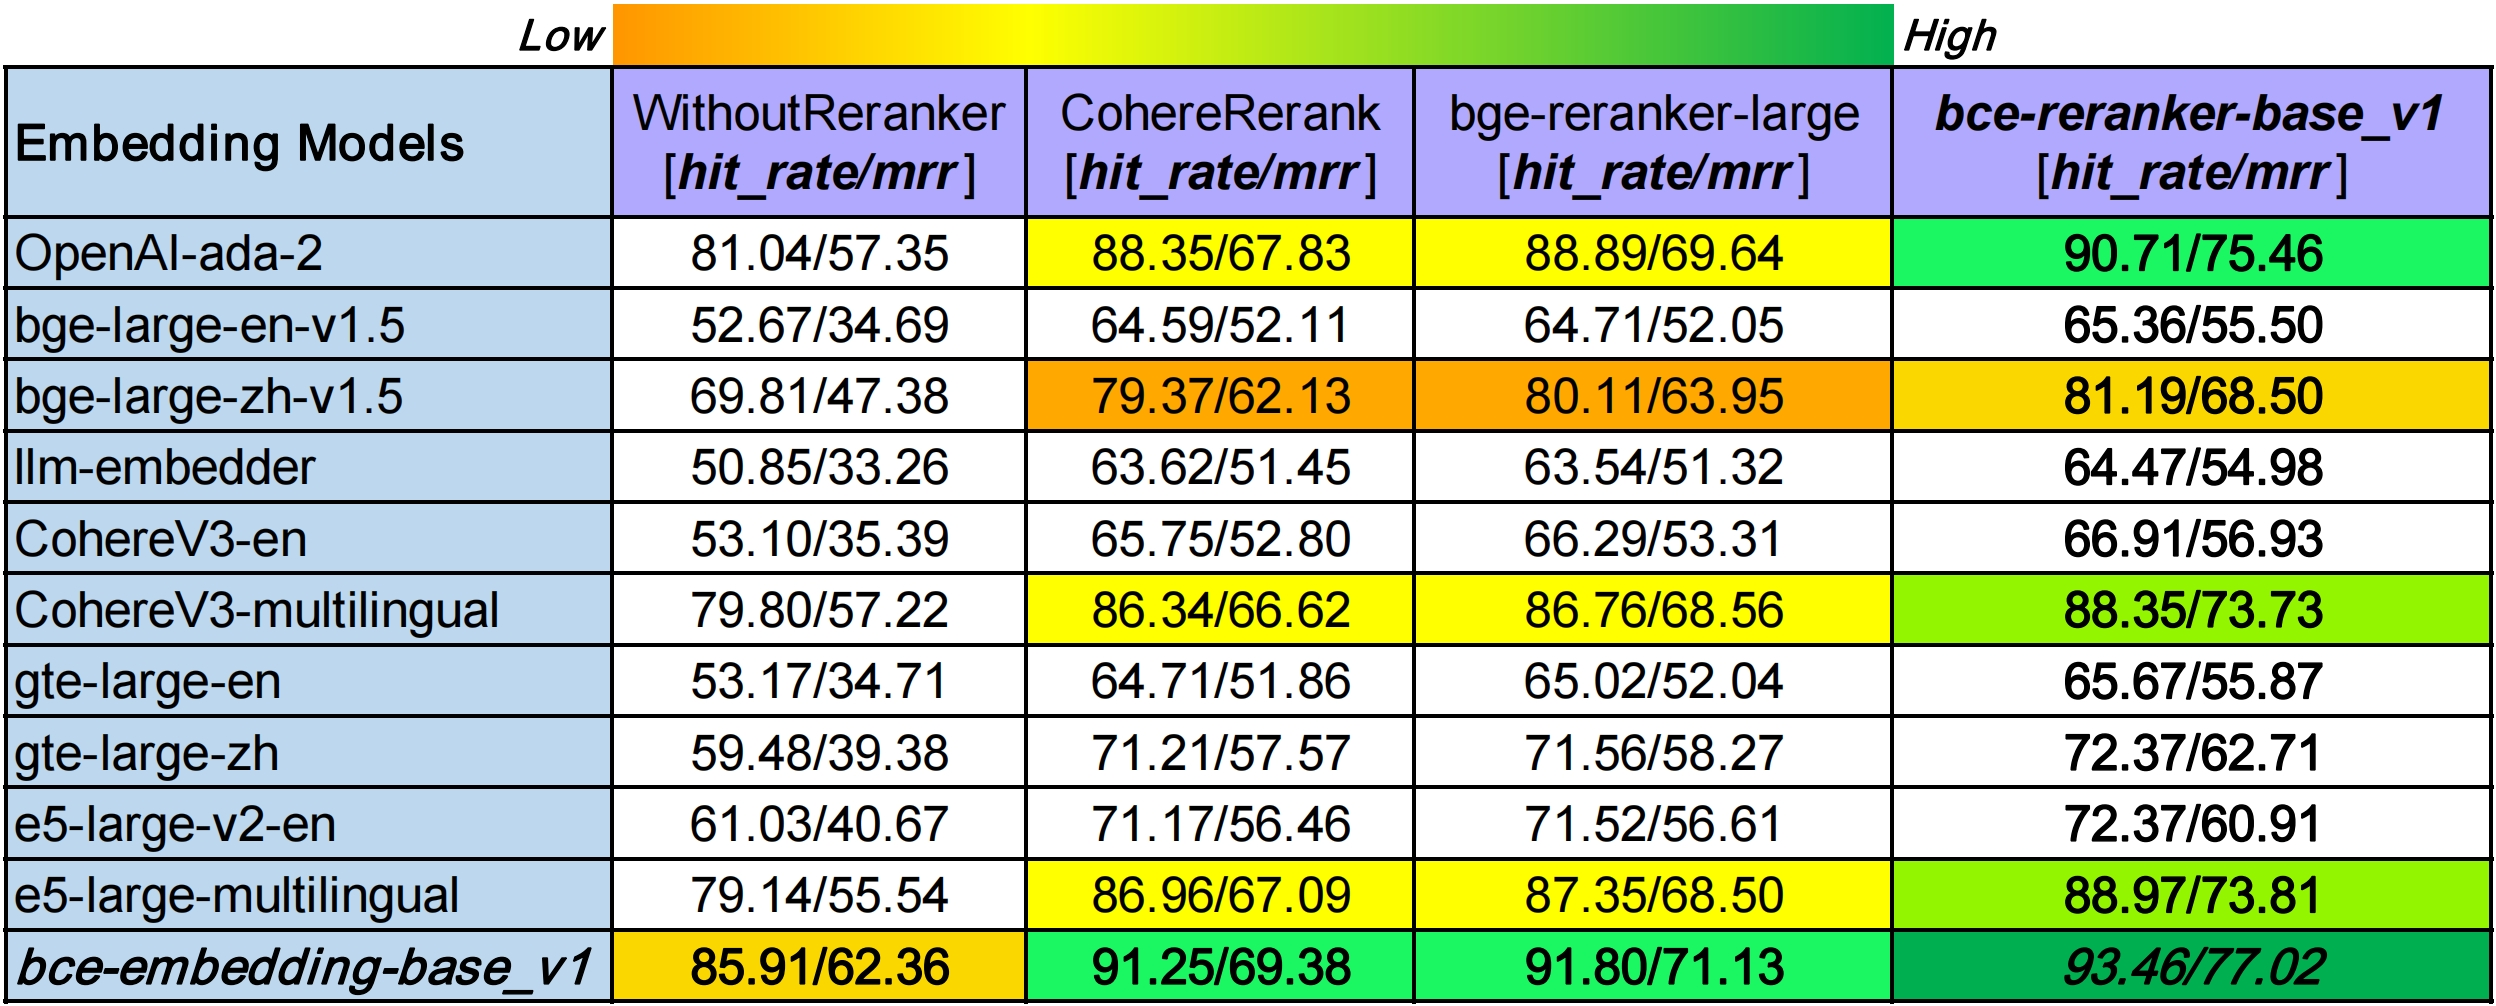
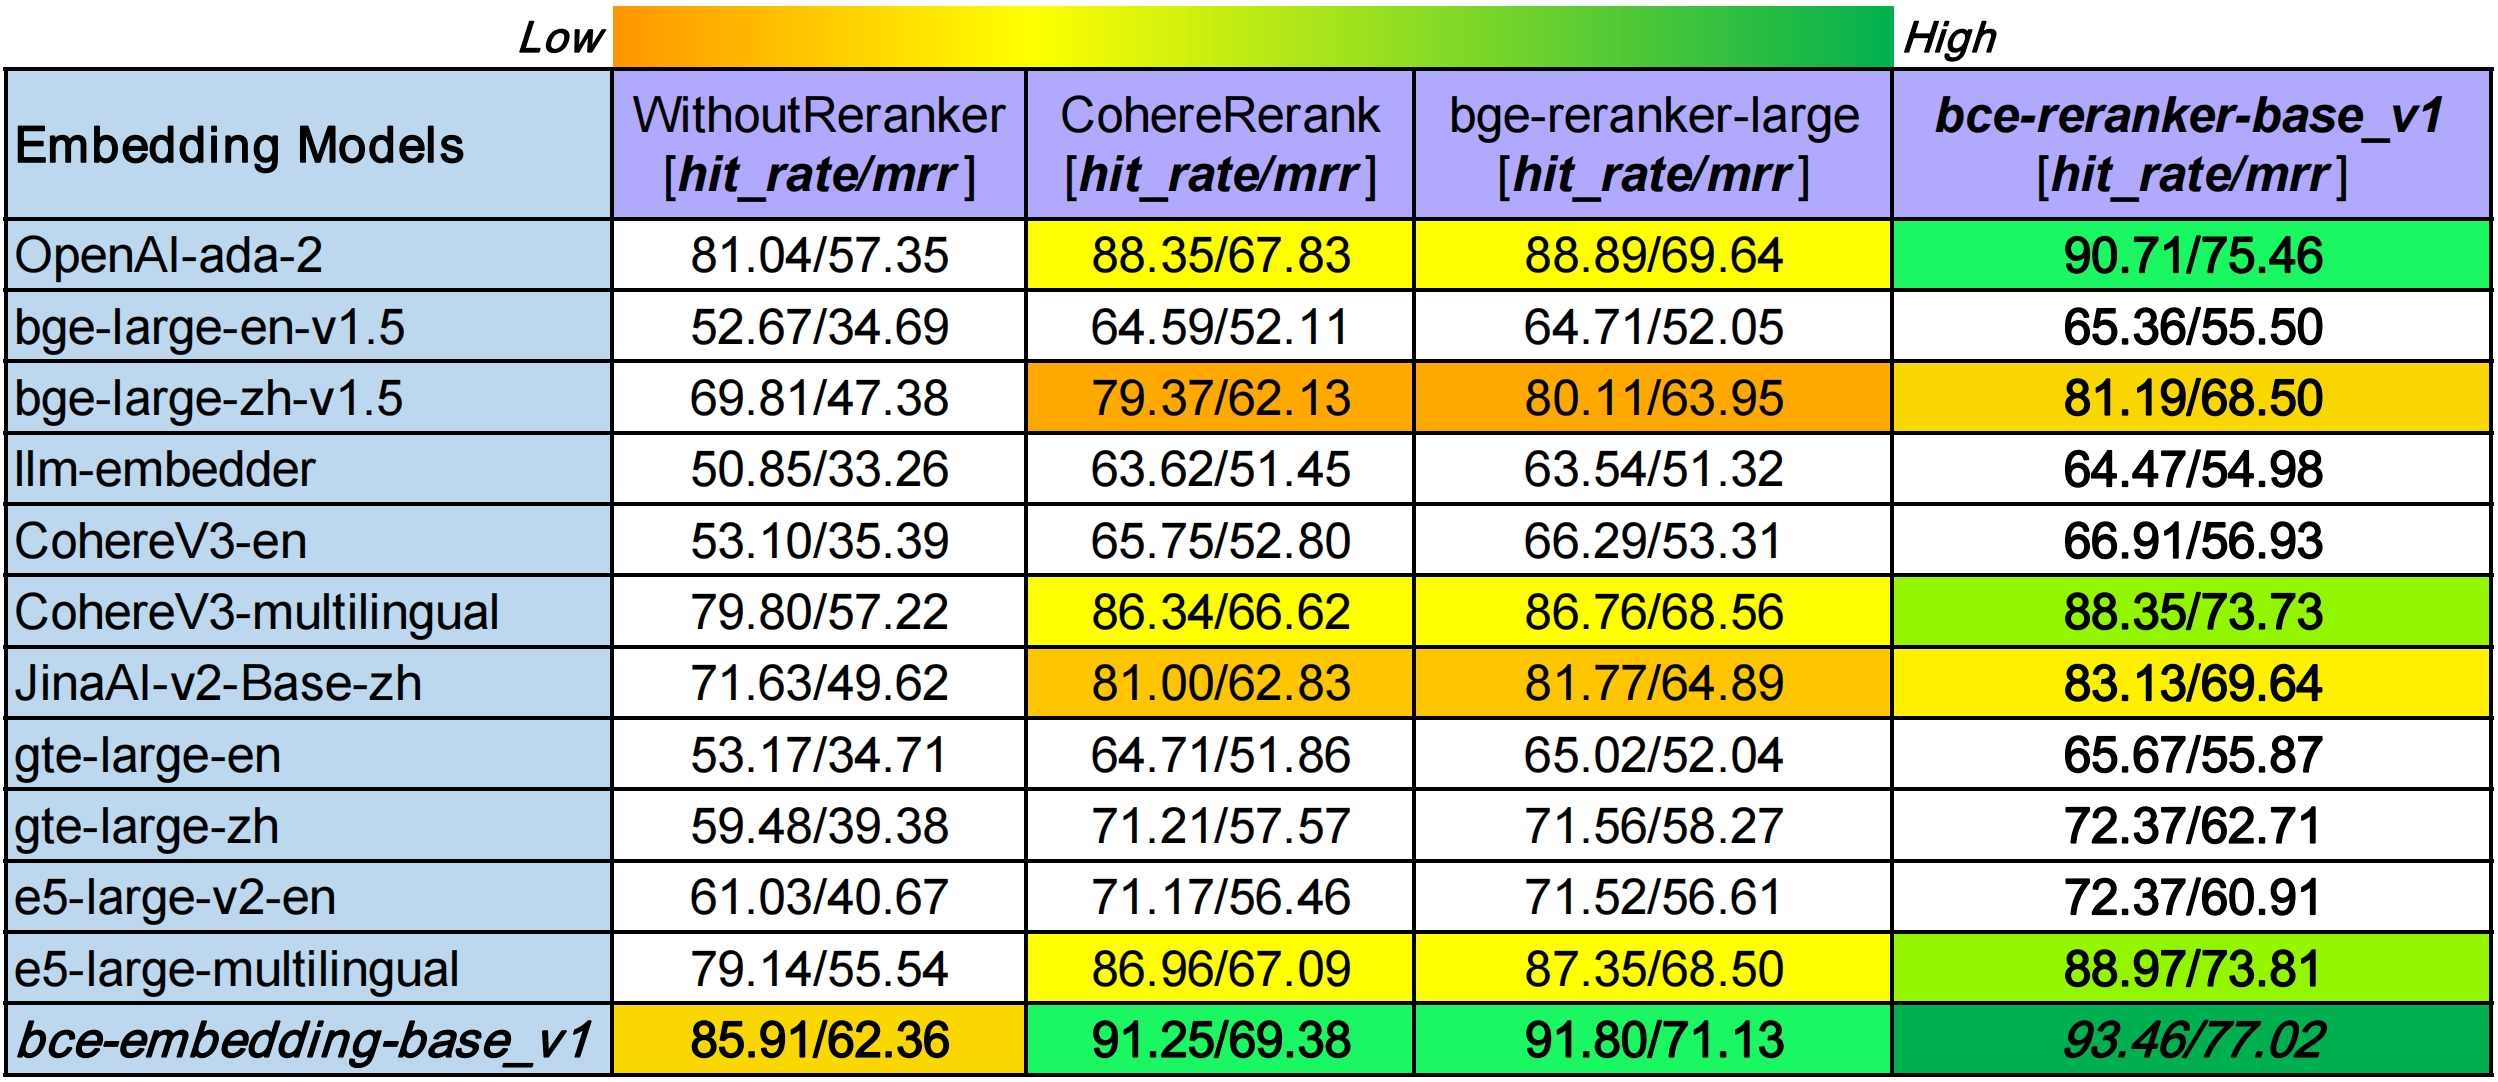
update llamaindex rag eval

diff --git a/BCEmbedding/tools/eval_rag/eval_llamaindex_multiple_domains.py b/BCEmbedding/tools/eval_rag/eval_llamaindex_multiple_domains.py
@@ -2,7 +2,7 @@
 @Description: 
 @Author: shenlei
 @Date: 2023-12-26 16:24:57
-@LastEditTime: 2024-01-09 01:04:24
+@LastEditTime: 2024-01-27 18:26:28
 @LastEditors: shenlei
 '''
 import os, json, sys
@@ -61,7 +61,7 @@ EMBEDDINGS = {
     "llm-embedder": {'model': HuggingFaceEmbedding, 'args': {'model_name': 'BAAI/llm-embedder', 'device': 'cuda:0'}},
     "CohereV3-en": {'model': CohereEmbedding, 'args': {'cohere_api_key': os.environ.get('COHERE_APPKEY'), 'model_name': 'embed-english-v3.0', 'input_type': 'search_document'}},
     "CohereV3-multilingual": {'model': CohereEmbedding, 'args': {'cohere_api_key': os.environ.get('COHERE_APPKEY'), 'model_name': 'embed-multilingual-v3.0', 'input_type': 'search_document'}},
-    "JinaAI-v2-Base-en": {'model': HuggingFaceEmbedding, 'args': {'model_name': 'jinaai/jina-embeddings-v2-base-en', 'pooling': 'mean', 'trust_remote_code': True, 'device': 'cuda:0'}},
+    "JinaAI-v2-Base-zh": {'model': HuggingFaceEmbedding, 'args': {'model_name': 'jinaai/jina-embeddings-v2-base-zh', 'pooling': 'mean', 'trust_remote_code': True, 'device': 'cuda:0'}},
     "gte-large-en": {'model': HuggingFaceEmbedding, 'args': {'model_name': 'thenlper/gte-large', 'pooling': 'mean', 'max_length':512, 'device': 'cuda:0'}},
     "gte-large-zh": {'model': HuggingFaceEmbedding, 'args': {'model_name': 'thenlper/gte-large-zh', 'max_length':512, 'device': 'cuda:0'}},
     "e5-large-v2-en": {'model': HuggingFaceEmbedding, 'args': {'model_name': 'intfloat/e5-large-v2', 'pooling': 'mean', 'query_instruction': 'query:', 'text_instruction': 'passage:', 'device': 'cuda:0'}},

diff --git a/BCEmbedding/tools/eval_rag/utils.py b/BCEmbedding/tools/eval_rag/utils.py
@@ -2,7 +2,7 @@
 @Description: 
 @Author: shenlei
 @Date: 2023-12-29 17:09:31
-@LastEditTime: 2023-12-31 01:02:48
+@LastEditTime: 2024-01-27 13:12:00
 @LastEditors: shenlei
 '''
 import json
@@ -56,7 +56,7 @@ qa_generate_prompt_tmpl_zh = """\
 将问题限制在所提供的上下文信息中。\
 """
 
-def load_dataset_from_huggingface(dataset_name='maidalun1020/CrosslingualRAGDataset'):
+def load_dataset_from_huggingface(dataset_name='maidalun1020/CrosslingualMultiDomainsDataset'):
     datasets_raw = load_dataset(dataset_name, split='dev')
     datasets = {}
     for dataset_raw in datasets_raw:
